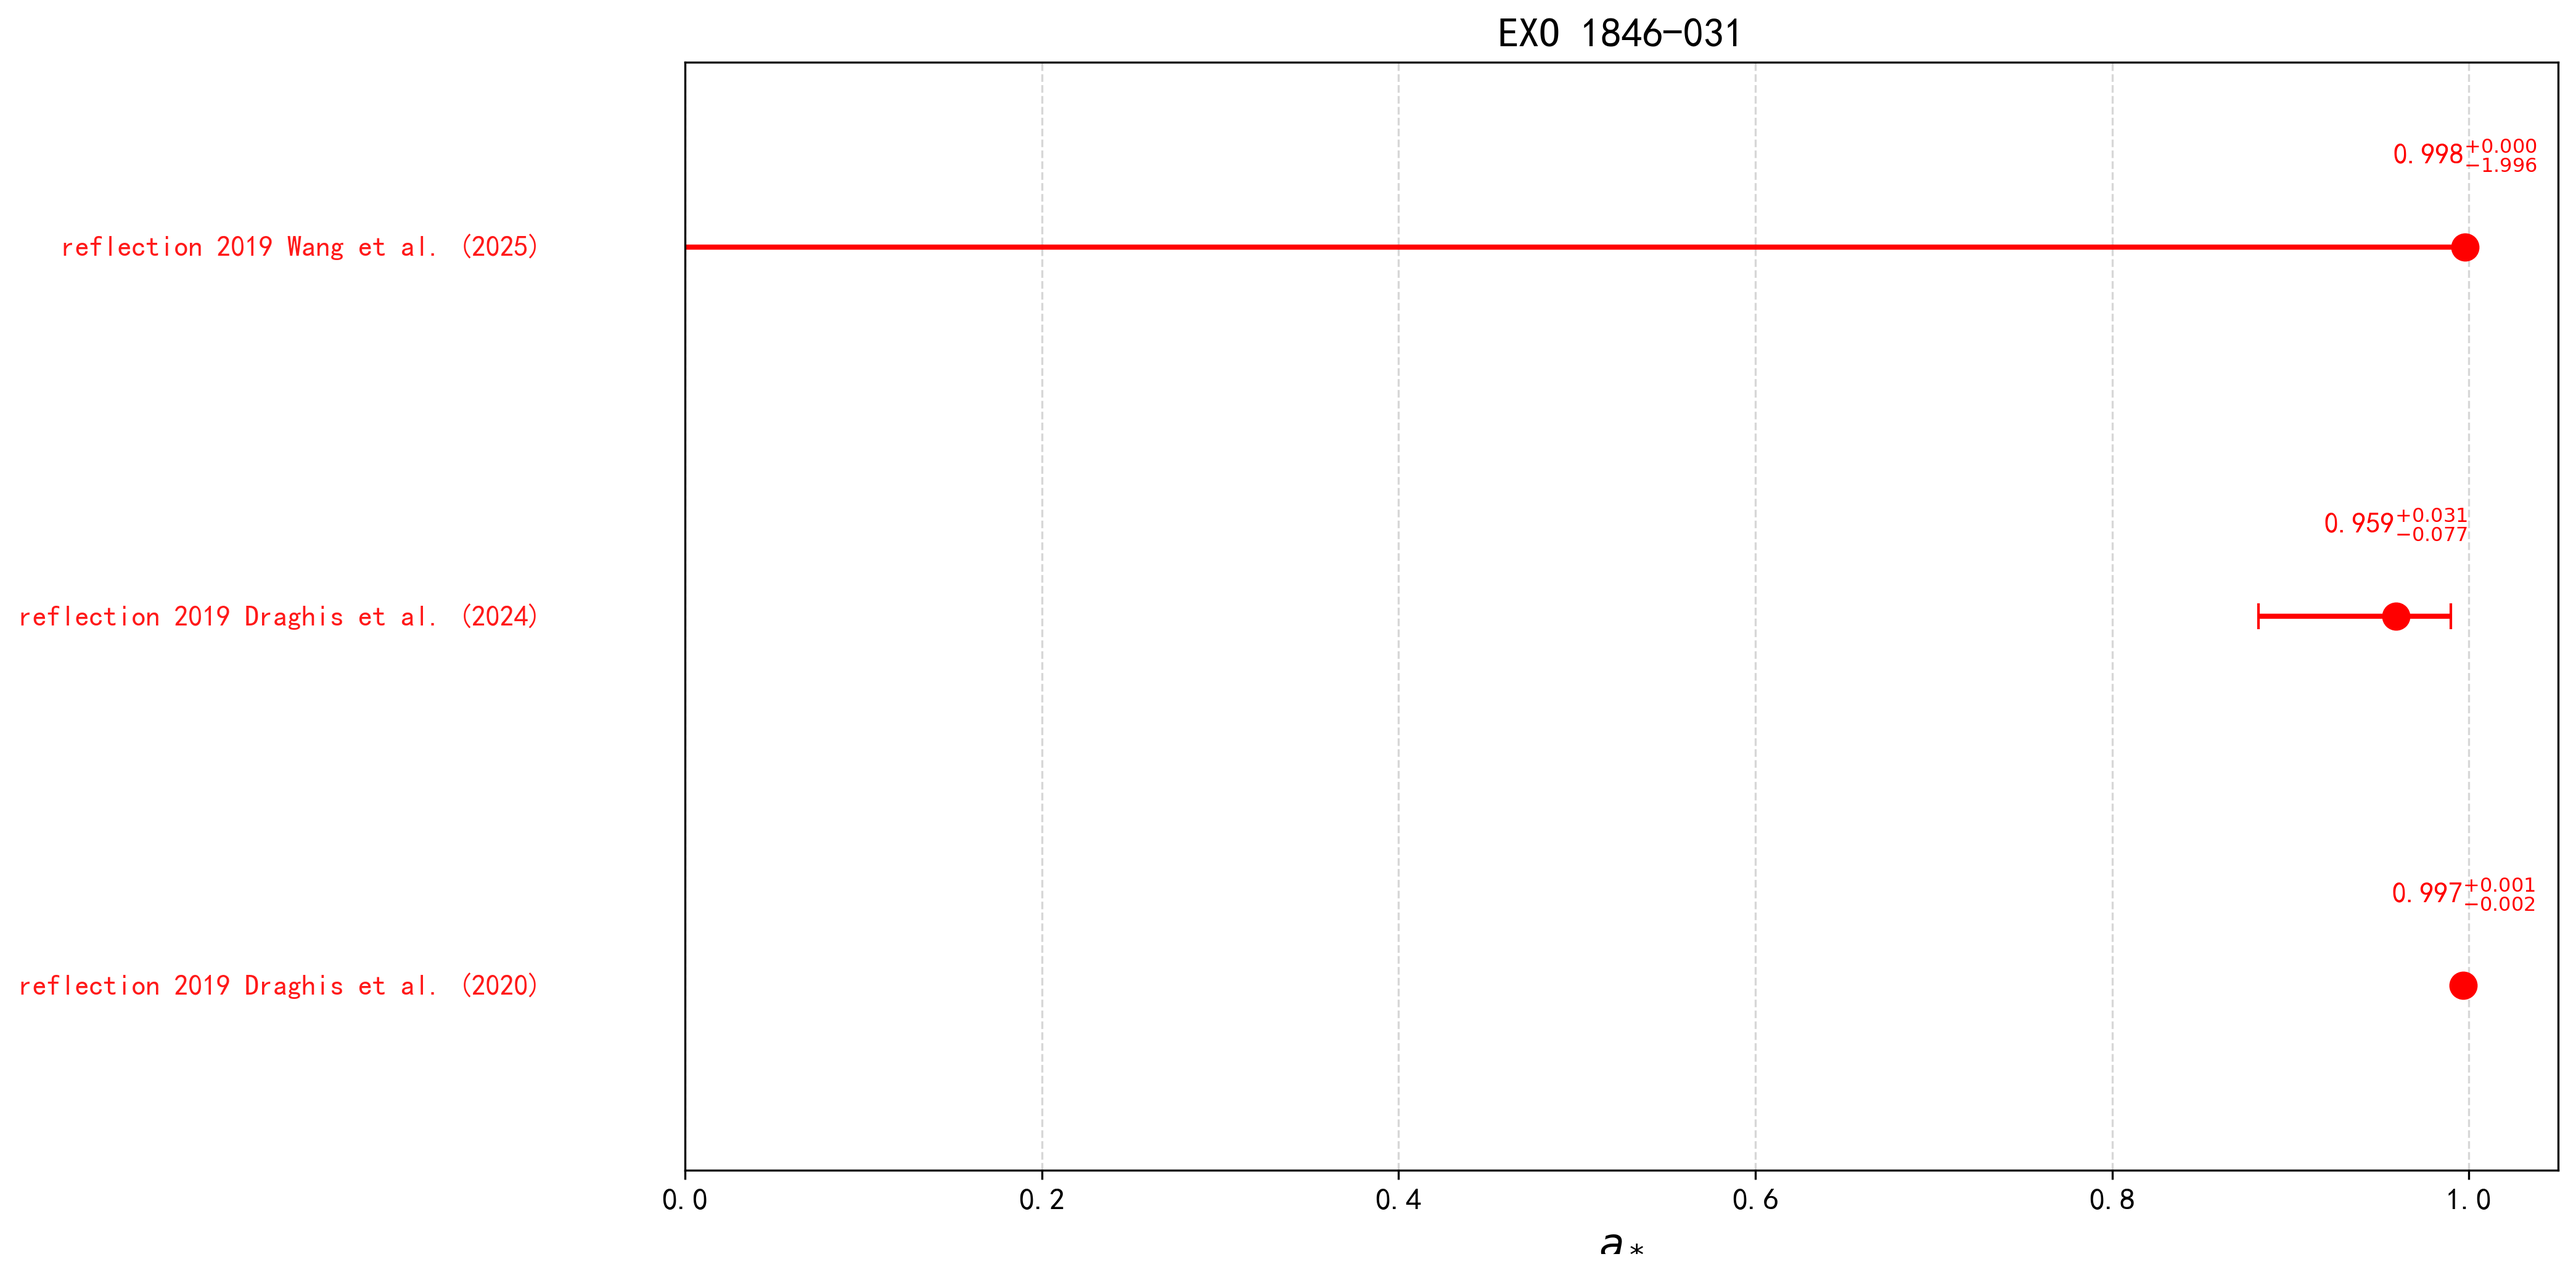
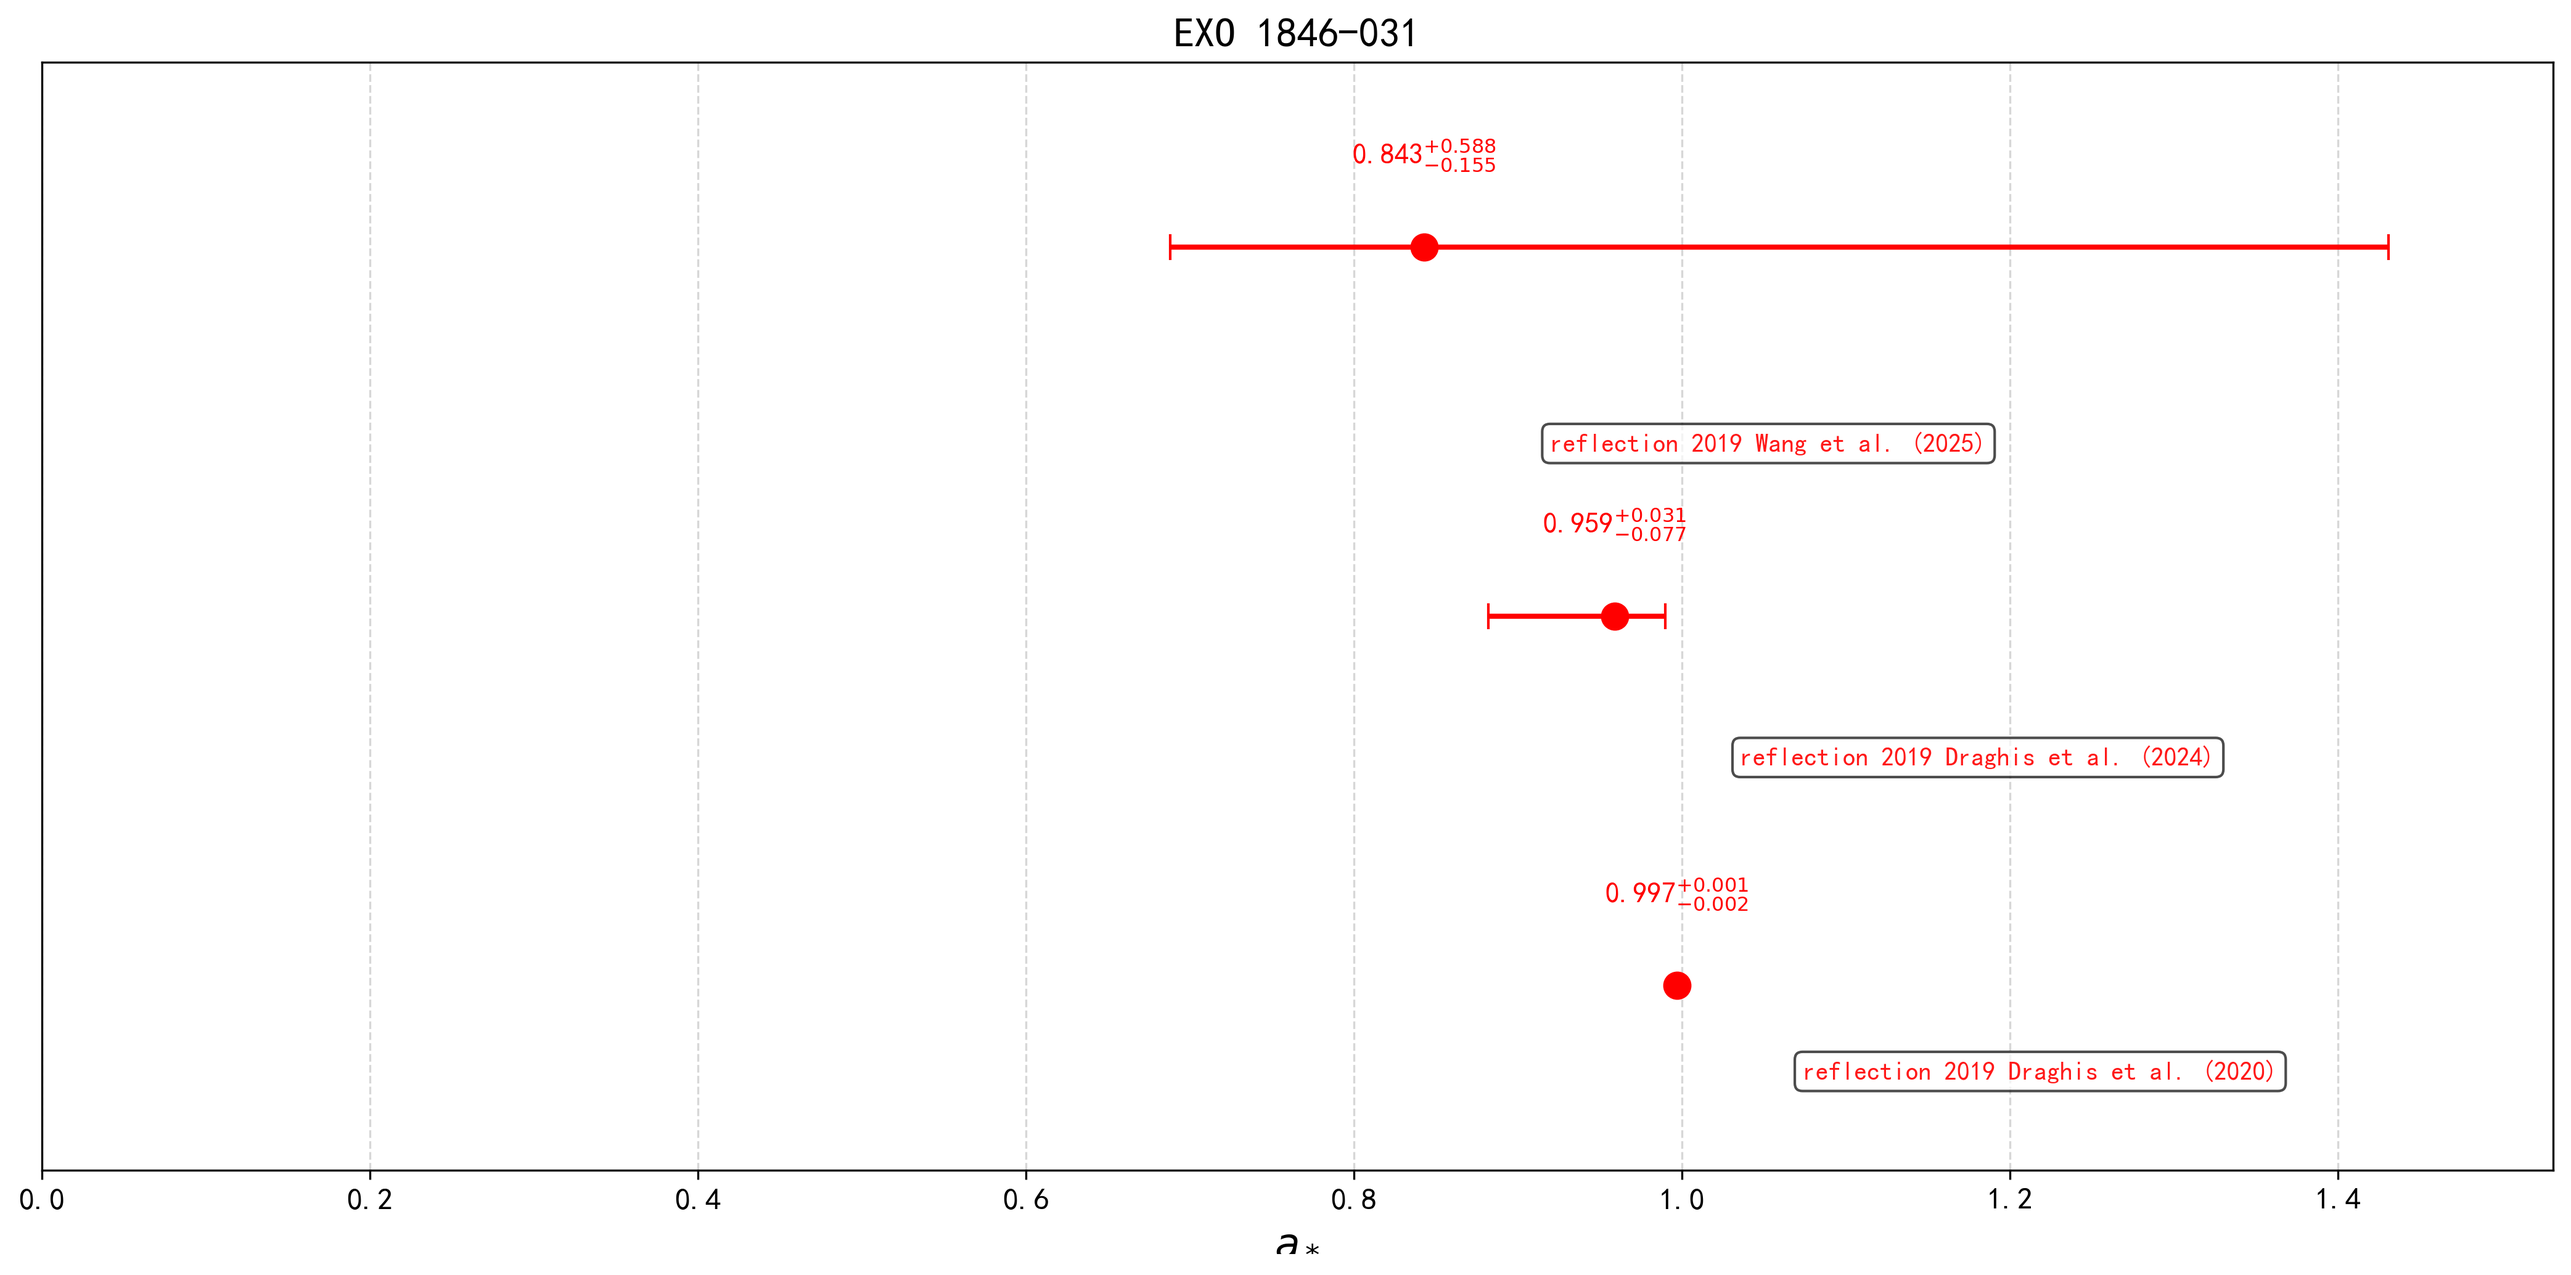
修改任务一

diff --git a/scripts/plot_spin_parameters.py b/scripts/plot_spin_parameters.py
@@ -74,14 +74,21 @@ def format_burst_year(year_str):
     return year_str
 
 def has_valid_error(error_min, error_max):
-    """判断误差是否有效"""
+    """判断误差是否有效，并返回误差类型"""
+    # 处理范围值（如 <0.8）
+    if pd.isna(error_min) and error_max == 0:
+        return 'less_than'
+    # 处理范围值（如 >0.9）
+    if error_min == 0 and pd.isna(error_max):
+        return 'greater_than'
+    # 正常误差
     if pd.isna(error_min) or pd.isna(error_max):
         return False
     if np.isinf(error_min) or np.isinf(error_max):
         return False
     if error_min == 0 and error_max == 0:
         return False
-    return True
+    return 'normal'
 
 def prepare_source_df(df, source_name):
     """为指定黑洞准备并排序数据"""
@@ -112,6 +119,25 @@ def prepare_source_df(df, source_name):
     source_df = source_df.loc[sorted_indices].reset_index(drop=True)
     return source_df
 
+def get_label_position(ax, x_data, y_data, x_min, x_max, color):
+    """智能计算标签位置，避免遮挡"""
+    # 获取当前 x 轴范围
+    x_range = x_max - x_min
+    
+    # 检查右侧是否有空间
+    right_space = x_max - x_data
+    left_space = x_data - x_min
+    
+    # 默认尝试放在右侧
+    if right_space > x_range * 0.15:  # 右侧有15%空间
+        return x_data + x_range * 0.05, 'left'
+    # 否则放在左侧
+    elif left_space > x_range * 0.15:
+        return x_data - x_range * 0.08, 'right'
+    else:
+        # 空间都不足，放在数据点上方
+        return x_data, 'center'
+
 def plot_single_source(source_df, source_name, output_dir):
     """绘制单个黑洞的图表"""
     n_points = len(source_df)
@@ -120,7 +146,7 @@ def plot_single_source(source_df, source_name, output_dir):
     
     fig, ax = plt.subplots(figsize=(14, max(7, n_points * 0.8)))
     
-    # 绘制数据点和误差棒
+    # 第一遍：绘制数据点和误差棒
     for i, row in source_df.iterrows():
         a_star = row['自旋值i']
         error_min = row['自旋值i -']
@@ -128,15 +154,65 @@ def plot_single_source(source_df, source_name, output_dir):
         model = row['拟合模型']
         color = color_map.get(model, other_color)
         
-        if has_valid_error(error_min, error_max):
+        error_type = has_valid_error(error_min, error_max)
+        
+        if error_type == 'normal':
+            # 正常误差棒
             xerr = [[error_min], [error_max]]
             ax.errorbar(a_star, i, xerr=xerr, fmt='o', color=color,
                        capsize=5, markersize=10, elinewidth=2,
                        ecolor=color, markeredgecolor=color, markerfacecolor=color)
+        elif error_type == 'less_than':
+            # 向左箭头：从 a_star-0.15 到 a_star
+            ax.arrow(a_star - 0.15, i, 0.13, 0, 
+                    head_width=0.2, head_length=0.03, 
+                    fc=color, ec=color, alpha=0.8, linewidth=2)
+            ax.plot(a_star, i, 'o', color=color, markersize=10)
+        elif error_type == 'greater_than':
+            # 向右箭头：从 a_star 到 a_star+0.15
+            ax.arrow(a_star, i, 0.13, 0, 
+                    head_width=0.2, head_length=0.03, 
+                    fc=color, ec=color, alpha=0.8, linewidth=2)
+            ax.plot(a_star, i, 'o', color=color, markersize=10)
         else:
+            # 无误差，仅画点
             ax.plot(a_star, i, 'o', color=color, markersize=10)
     
-    # 添加标注
+    # 计算 x 轴范围
+    all_values = []
+    for i, row in source_df.iterrows():
+        a_star = row['自旋值i']
+        error_min = row['自旋值i -']
+        error_max = row['自旋值i +']
+        error_type = has_valid_error(error_min, error_max)
+        
+        all_values.append(a_star)
+        
+        if error_type == 'normal':
+            if not pd.isna(error_min) and not np.isinf(error_min):
+                all_values.append(a_star - error_min)
+            if not pd.isna(error_max) and not np.isinf(error_max):
+                all_values.append(a_star + error_max)
+        elif error_type == 'less_than':
+            all_values.append(a_star - 0.2)  # 箭头向左延伸
+        elif error_type == 'greater_than':
+            all_values.append(a_star + 0.2)  # 箭头向右延伸
+    
+    min_val = min(all_values)
+    max_val = max(all_values)
+    
+    # 判断是否需要扩展到负数
+    if min_val < 0:
+        x_min = -1.05  # 扩展到 -1 并留余量
+    else:
+        x_min = 0
+    
+    x_max = max(1.05, max_val + 0.1)
+    
+    # 设置 x 轴
+    ax.set_xlim(x_min, x_max)
+    
+    # 第二遍：添加标注（数值标签和文献标签）
     for i, row in source_df.iterrows():
         a_star = row['自旋值i']
         error_min = row['自旋值i -']
@@ -147,25 +223,41 @@ def plot_single_source(source_df, source_name, output_dir):
         lit_year = row['lit_year_str']
         color = color_map.get(row['拟合模型'], other_color)
         
+        error_type = has_valid_error(error_min, error_max)
+        
         # 数值标签
-        if has_valid_error(error_min, error_max):
+        if error_type == 'less_than':
+            upper_text = f"<{a_star:.3f}"
+        elif error_type == 'greater_than':
+            upper_text = f">{a_star:.3f}"
+        elif error_type == 'normal':
             upper_text = f"{a_star:.3f}$^{{+{error_max:.3f}}}_{{-{error_min:.3f}}}$"
         else:
             upper_text = f"{a_star:.3f}"
+        
         ax.text(a_star, i + 0.2, upper_text, fontsize=11, va='bottom', ha='center',
                 color=color, fontweight='bold')
         
-        # 文献标签
+        # 文献标签 - 智能定位
+        x_pos, ha = get_label_position(ax, a_star, i, x_min, x_max, color)
         lower_text = f"{model} {burst_year} {author} ({lit_year})"
-        ax.text(-0.08, i, lower_text, fontsize=11, va='center', ha='right',
-                color=color, alpha=0.9)
+        
+        # 检查是否与数据点重叠（简单的 y 轴调整）
+        y_offset = 0
+        # 检查上方是否有其他标签
+        for other_i in range(i-1, max(-1, i-3), -1):
+            if other_i >= 0:
+                y_offset += 0.15
+        
+        ax.text(x_pos, i - 0.2 - y_offset, lower_text, fontsize=10, 
+                va='top', ha=ha, color=color, alpha=0.9,
+                bbox=dict(boxstyle='round,pad=0.3', facecolor='white', alpha=0.7))
     
     # 隐藏 y 轴
     ax.set_yticks([])
     ax.set_ylim(y_min, y_max)
     
-    # 设置 x 轴
-    ax.set_xlim(0, 1.05)   # 用户指定从 0 开始
+    # 设置 x 轴标签和网格
     ax.set_xlabel(r'$a_*$', fontsize=16, ha='center', fontweight='bold')
     ax.grid(axis='x', linestyle='--', alpha=0.5, linewidth=0.8)
     
@@ -187,7 +279,7 @@ def plot_single_source(source_df, source_name, output_dir):
 def main():
     # 读取数据
     print("正在读取数据...")
-    df = pd.read_excel('data/数据收集 表3.xlsx', sheet_name='Sheet1')
+    df = pd.read_excel('data/数据收集 表3 画图用.xlsx', sheet_name='Sheet1')
     print(f"成功读取 {len(df)} 行数据")
     
     # 清洗：向前填充黑洞名称

diff --git a/scripts/test_simple.py b/scripts/test_simple.py
@@ -10,14 +10,14 @@ plt.rcParams['axes.unicode_minus'] = False
 
 # 读取数据
 print("正在读取数据...")
-df = pd.read_excel('data/数据收集 表3.xlsx', sheet_name='Sheet1')
+df = pd.read_excel('data/数据收集 表3 画图用.xlsx', sheet_name='Sheet1')
 print(f"成功读取 {len(df)} 行数据")
 
 # 清洗数据：向前填充黑洞名称
 df['源'] = df['源'].ffill()
 df = df.dropna(subset=['源'])
 
-# 获取指定黑洞
+# 获取指定黑洞（可以修改为你想测试的黑洞名称）
 first_source = '4U 1543-475'
 source_df = df[df['源'] == first_source].copy()
 source_df = source_df.reset_index(drop=True)
@@ -138,7 +138,7 @@ y_max = n_points - 0.5
 # 创建图形（放大图片尺寸）
 fig, ax = plt.subplots(figsize=(14, max(7, n_points * 0.8)))
 
-# 绘制每个数据点
+# 第一遍：绘制数据点和误差棒
 for i, row in source_df.iterrows():
     a_star = row['自旋值i']
     error_min = row['自旋值i -']
@@ -163,6 +163,34 @@ for i, row in source_df.iterrows():
     else:
         ax.plot(a_star, i, 'o', color=color, markersize=10)
 
+# 计算 x 轴范围（自动识别是否需要扩展到负数）
+all_values = []
+for i, row in source_df.iterrows():
+    a_star = row['自旋值i']
+    error_min = row['自旋值i -']
+    error_max = row['自旋值i +']
+    
+    all_values.append(a_star)
+    
+    if not pd.isna(error_min) and not np.isinf(error_min) and error_min > 0:
+        all_values.append(a_star - error_min)
+    if not pd.isna(error_max) and not np.isinf(error_max) and error_max > 0:
+        all_values.append(a_star + error_max)
+
+min_val = min(all_values)
+max_val = max(all_values)
+
+# 判断是否需要扩展到负数
+if min_val < 0:
+    x_min = -1.05
+else:
+    x_min = 0
+
+x_max = max(1.05, max_val + 0.1)
+
+# 设置 x 轴
+ax.set_xlim(x_min, x_max)
+
 # 添加标注
 for i, row in source_df.iterrows():
     a_star = row['自旋值i']
@@ -183,30 +211,47 @@ for i, row in source_df.iterrows():
     else:
         upper_text = f"{a_star:.3f}"
     
-    # 左侧标签：模型 爆发年份 作者 (年份)
+    # 文献标签
     lower_text = f"{model} {burst_year} {author} ({lit_year})"
     
     # 数值标签放在点正上方（垂直偏移0.2）
     ax.text(a_star, i + 0.2, upper_text, fontsize=11, va='bottom', ha='center', 
             color=color, fontweight='bold')
     
-    # 文献标签放在点左侧（x坐标调整为 -0.08，配合左侧空间）
-    ax.text(-0.08, i, lower_text, fontsize=11, va='center', ha='right', 
-            color=color, alpha=0.9)
+    # 【修改1】文献标签：移除黑色边框（edgecolor='none'）
+    # 【修改2】减小与数据点的距离：将 i - 0.2 改为 i - 0.35，字体改为9号
+    # 同时智能判断标签位置，优先放在右侧避免遮挡
+    x_range = x_max - x_min
+    right_space = x_max - a_star
+    left_space = a_star - x_min
+    
+    # 优先放在右侧
+    if right_space > x_range * 0.15:
+        x_pos = a_star + x_range * 0.05
+        ha = 'left'
+        y_offset = 0  # 右侧不需要垂直偏移
+    elif left_space > x_range * 0.15:
+        x_pos = a_star - x_range * 0.08
+        ha = 'right'
+        y_offset = 0
+    else:
+        x_pos = a_star
+        ha = 'center'
+        y_offset = -0.15
+    
+    ax.text(x_pos, i - 0.35 + y_offset, lower_text, fontsize=9, 
+            va='top', ha=ha, color=color, alpha=0.9,
+            bbox=dict(boxstyle='round,pad=0.3', facecolor='white', alpha=0.7, edgecolor='none'))
 
 # 完全隐藏 y 轴（刻度线和刻度标签）
 ax.set_yticks([])
 ax.set_ylim(y_min, y_max)
 
-# 设置 x 轴（范围 0-1）
-ax.set_xlim(0.0, 1.0)
-ax.set_xlabel(r'$a_*$', fontsize=16, ha='center', fontweight='bold')
+# 【修改3】修复 x 轴标签被截断问题
+ax.set_xlabel(r'$a_*$', fontsize=16, ha='center', fontweight='bold', labelpad=10)
 
 # 添加网格
 ax.grid(axis='x', linestyle='--', alpha=0.5, linewidth=0.8)
-
-# 调整 x 轴左边界，为左侧标签预留更多空间
-ax.set_xlim(0, 1.05)
 
 # 设置标题为源名称
 ax.set_title(first_source, fontsize=16, fontweight='bold')
@@ -214,10 +259,8 @@ ax.set_title(first_source, fontsize=16, fontweight='bold')
 # 设置坐标轴刻度字体大小
 ax.tick_params(axis='x', labelsize=12)
 
-# 为左侧标签预留更多空间（关键调整）
-plt.subplots_adjust(left=0.2)
-
-plt.tight_layout()
+# 【修改3】调整底部边距，确保 x 轴标签完整显示
+plt.subplots_adjust(left=0.2, bottom=0.15)
 
 # 保存图片
 os.makedirs('output', exist_ok=True)

diff --git a/scripts/test_read.py b/scripts/test_read.py
@@ -1,9 +1,16 @@
 import pandas as pd
 
-# 注意：文件名有空格，需要用引号括起来
-df = pd.read_excel('data/数据收集 表3.xlsx', sheet_name='Sheet1')
-print(f"成功读取，共 {len(df)} 行数据")
-print("\n列名：")
-print(df.columns.tolist())
-print("\n前5行数据：")
-print(df.head())
+# 读取桌面上的新数据文件（使用正确的用户名：王雨珊）
+df = pd.read_excel(r'C:\Users\王雨珊\Desktop\数据收集 表3 画图用.xlsx', sheet_name='Sheet1')
+
+print("=" * 50)
+print("文件读取成功！")
+print("=" * 50)
+print(f"\n数据行数：{len(df)} 行")
+print(f"\n列名列表：")
+for i, col in enumerate(df.columns, 1):
+    print(f"  {i}. {col}")
+print(f"\n前3行数据预览:")
+print(df.head(3))
+print("\n数据类型:")
+print(df.dtypes)
